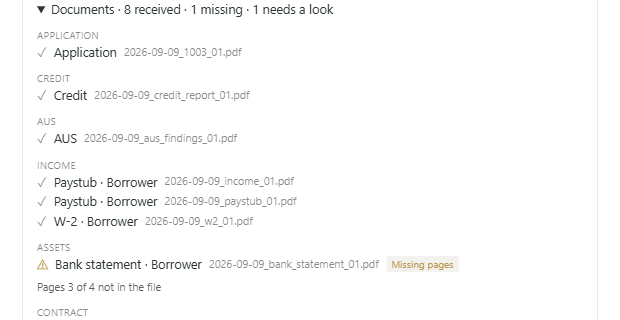
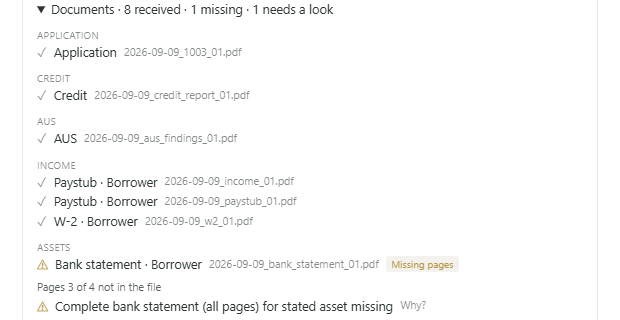
Document intake results: second run evidence and after-review screenshot

Changed region(s): [[0.0613, 0.9375, 0.7048, 1.0]]

diff --git a/DOCUMENT_INTAKE_TEST_RESULTS.md b/DOCUMENT_INTAKE_TEST_RESULTS.md
@@ -42,6 +42,8 @@ Driver: `e2e_documents.mjs full` against the real API (`server/index.js`, local-
 
 A first run of the same set used documents naming a *different* synthetic borrower ("Riley Johnson"): Malcolm read the extracted text, flagged **BLOCKED — borrower name mismatch on every document** and Flo warned Ashley not to reconcile them. That was the review working as intended on bad input; the set was regenerated with the matching name for the clean run above.
 
+Second run, after Malcolm's review (`loan_0bdad9ab89e1`): Malcolm again confirmed every document names the submission borrower, IN_PROGRESS 34/100, one missing item (complete bank statement). Flo's relay in her Bot Chat was still long-form prose: her running Bot Chat session carries the earlier conversation (four near-identical synthetic submissions Malcolm has been escalating as duplicates), and she led with that escalation rather than the `review_line`. The deterministic `review_line` is computed and tested; whether Flo speaks it verbatim on a clean pipeline is the one thing this run could not prove — a fresh Bot Chat session (no synthetic duplicate history) is the next check.
+
 ## Mobile upload flow
 
 In the in-app browser at a 375 × 812 viewport (`?lfDemo=1&lfStep=documents`, Vite dev with `/api` proxied to the real API): the Documents step lays out single-column (category select, type select, drop zone, list), and three synthetic files dropped on the zone from the page went through the real `PUT` endpoint — `mobile_1003.pdf` → **Received**, the same bytes under `mobile_1003 copy.pdf` → **Duplicate — already have this one**, `acct_123456789012.pdf` → **failed with the server's message and a Retry button**. Each row shows filename, category, size and status. A native file picker / camera capture was not driven (the sandboxed browser cannot open one); the `<input type="file" multiple accept=".pdf,.jpg,.jpeg,.png">` is what a phone uses.
